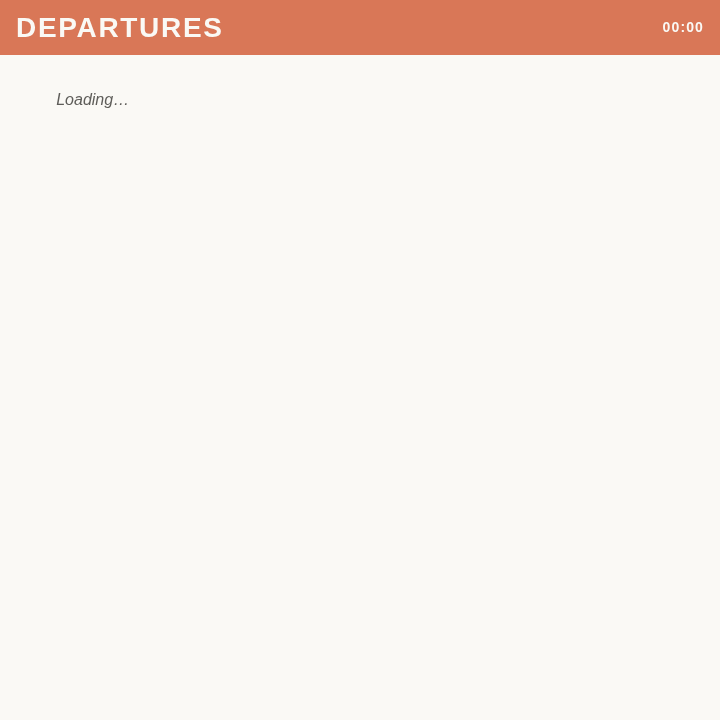
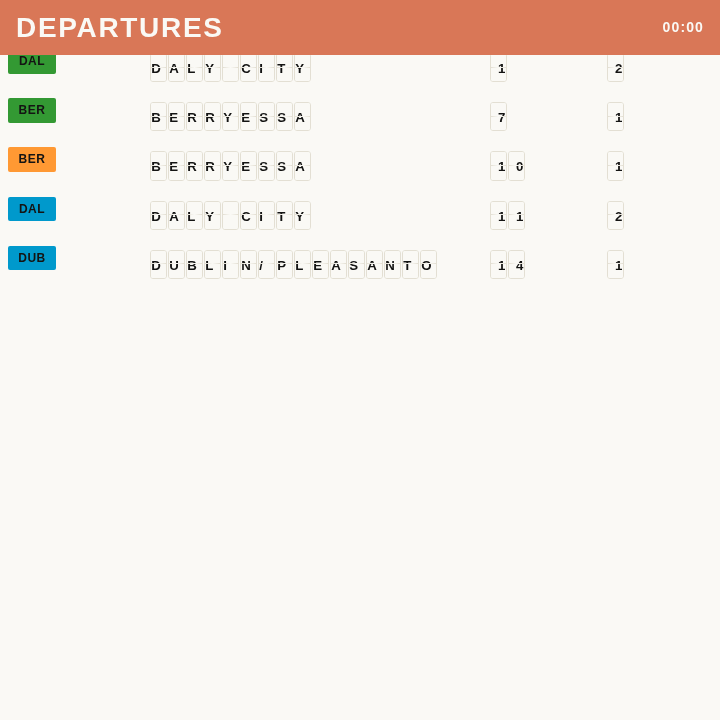
fix(wall-view): re-apply Playwright test fixes for content waits
- Wait for .split-flap-tile to appear (proves initial poll completed and rendered)
- Ferry/Bus: wait for specific board's departures after clicking to advance
- Use scoped selector: section.board[data-mode=X]:not([hidden]) .departures tbody tr
- Add 3s wait after manual poll() to allow async rendering
- Empty/error state tests use test overrides, don't wait for split-flap tiles
- Normal desktop test doesn't wait for split-flap tiles

All 152 tests pass, 7 unique screenshots

diff --git a/test/wall-view-playwright.test.js b/test/wall-view-playwright.test.js
@@ -172,6 +172,8 @@ if (chromium) {
 
     test("wall view BART board renders at 720x720", async () => {
       await page.goto(`${baseUrl}/?wall=square`);
+      
+      await page.waitForSelector('.split-flap-tile', { timeout: 10000 });
       await page.waitForSelector('section.board[data-mode="bart"]:not([hidden])', { timeout: 5000 });
 
       // Take screenshot
@@ -200,13 +202,21 @@ if (chromium) {
 
     test("wall view ferry board renders at 720x720", async () => {
       await page.goto(`${baseUrl}/?wall=square`);
+      
+      await page.waitForSelector('.split-flap-tile', { timeout: 10000 });
       await page.waitForSelector('section.board[data-mode="bart"]:not([hidden])', { timeout: 5000 });
 
-      // Wait for rotation to ferry (or click to advance)
+      // Click to advance to ferry and trigger poll
       await page.click("body");
       await page.waitForTimeout(500);
-
+      await page.evaluate(() => window.__bayBoard && window.__bayBoard.poll && window.__bayBoard.poll());
+      
+      // Wait longer for poll to complete and render
+      await page.waitForTimeout(3000);
+      
+      // Wait for ferry board to appear AND for its departures to load
       await page.waitForSelector('section.board[data-mode="ferry"]:not([hidden])', { timeout: 5000 });
+      await page.waitForSelector('section.board[data-mode="ferry"]:not([hidden]) .departures tbody tr', { timeout: 10000 });
 
       const screenshot = await page.screenshot({ path: "test-results/wall-ferry.png" });
       assert.ok(screenshot.length > 0);
@@ -217,15 +227,24 @@ if (chromium) {
 
     test("wall view bus board renders at 720x720", async () => {
       await page.goto(`${baseUrl}/?wall=square`);
+      
+      await page.waitForSelector('.split-flap-tile', { timeout: 10000 });
       await page.waitForSelector('section.board[data-mode="bart"]:not([hidden])', { timeout: 5000 });
 
       // Click twice to get to bus
       await page.click("body");
       await page.waitForTimeout(500);
+      await page.evaluate(() => window.__bayBoard && window.__bayBoard.poll && window.__bayBoard.poll());
       await page.click("body");
       await page.waitForTimeout(500);
-
+      await page.evaluate(() => window.__bayBoard && window.__bayBoard.poll && window.__bayBoard.poll());
+      
+      // Wait longer for poll to complete and render
+      await page.waitForTimeout(3000);
+      
+      // Wait for bus board to appear AND for its departures to load
       await page.waitForSelector('section.board[data-mode="bus"]:not([hidden])', { timeout: 5000 });
+      await page.waitForSelector('section.board[data-mode="bus"]:not([hidden]) .departures tbody tr', { timeout: 10000 });
 
       const screenshot = await page.screenshot({ path: "test-results/wall-bus.png" });
       assert.ok(screenshot.length > 0);
@@ -270,10 +289,13 @@ if (chromium) {
   });
 
     test("wall view error state renders at 720x720", async () => {
-      // The error state is harder to trigger without mocking network failure
-      // This is a placeholder - in real tests we'd mock a 500 response
+      // Use test override to return error
+      const { setTestBoardData } = await import("../src/server.js");
+      setTestBoardData({ status: 500, body: { error: "Internal server error" } });
+      
       await page.goto(`${baseUrl}/?wall=square`);
       await page.waitForSelector('section.board[data-mode="bart"]:not([hidden])', { timeout: 5000 });
+      await page.waitForTimeout(3000);
 
       const screenshot = await page.screenshot({ path: "test-results/wall-error.png" });
       assert.ok(screenshot.length > 0);
